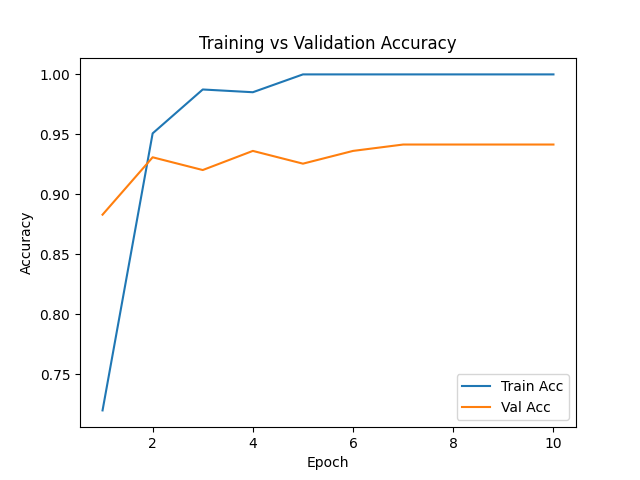
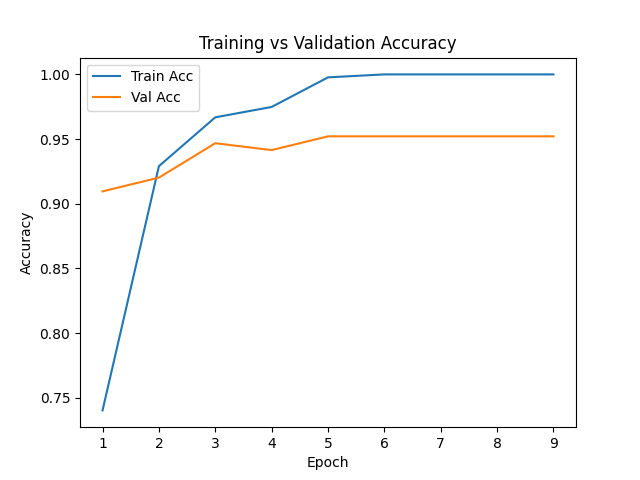
C1 statistical robustness check results, C2 visualise qualitative localisation results and script, file rename to correspond to sections in part c accordingly

diff --git a/src/eval/c2_visualise_qualitative_localisation.py b/src/eval/c2_visualise_qualitative_localisation.py
@@ -6,7 +6,7 @@ import matplotlib.pyplot as plt
 import numpy as np
 from src.data.jhmdb_dataloader import build_jhmdb_dataloaders
 from src.model.localizer import VideoMAELocalizer
-
+from src.data.jhmdb_dataset import JHMDBDataset
 
 def draw_box(img, box, color, thickness=2):
     x1, y1, x2, y2 = [int(v) for v in box]
@@ -14,6 +14,13 @@ def draw_box(img, box, color, thickness=2):
     cv2.rectangle(img, (x1, y1), (x2, y2), color, thickness)
     return img
 
+def get_class_color(class_idx):
+    colors = [
+        (255, 0, 0), (0, 255, 0), (0, 0, 255),
+        (255, 255, 0), (255, 0, 255), (0, 255, 255),
+        (128, 0, 0), (0, 128, 0), (0, 0, 128),
+    ]
+    return colors[class_idx % len(colors)]
 
 def denormalize_box(box, width, height):
     box = box.clone()
@@ -36,6 +43,8 @@ def main():
     root = "./JHMDB"
 
     _, test_loader = build_jhmdb_dataloaders(root, cfg)
+    dataset = JHMDBDataset(root=root, split="test", split_id=1, num_frames=16)
+    class_names = dataset.classes
 
     model = VideoMAELocalizer(
         checkpoint="MCG-NJU/videomae-base-finetuned-kinetics",
@@ -60,7 +69,9 @@ def main():
         gt_boxes = gt_boxes.to(device)
 
         with torch.no_grad():
-            _, pred_boxes = model(frames)
+            class_logits, pred_boxes = model(frames)
+            pred_label = class_logits.argmax(dim=1)[0].item()
+            gt_label = labels[0].item()
 
         frames = frames[0].cpu()
         gt_boxes = gt_boxes[0].cpu()
@@ -78,8 +89,10 @@ def main():
             gt = denormalize_box(gt_boxes[frame_idx], w, h)
             pred = denormalize_box(pred_boxes[frame_idx], w, h)
 
+            pred_color = get_class_color(pred_label)
             img = draw_box(img, gt, (0, 255, 0), 2)
-            img = draw_box(img, pred, (0, 0, 255), 2)
+            pred_color = get_class_color(pred_label)
+            img = draw_box(img, pred, pred_color, 2)
 
             img = cv2.cvtColor(img, cv2.COLOR_BGR2RGB)
             imgs.append(img)
@@ -89,7 +102,10 @@ def main():
             ax.imshow(img)
             ax.axis("off")
 
-        title = f"{meta['class_name'][0]} | {meta['video_name'][0]}"
+        gt_name = class_names[gt_label]
+        pred_name = class_names[pred_label]
+
+        title = f"GT: {gt_name} | Pred: {pred_name}"
         fig.suptitle(title)
         plt.tight_layout()
         plt.savefig(f"outputs/localisation_vis/sample_{sample_idx+1}.png")

diff --git a/main.py b/main.py
@@ -15,12 +15,22 @@ from src.utils import seed_everything, count_parameters
 from src.model.timesformer import load_timesformer
 from src.model.videomae import load_videomae
 from src.eval.plots import plot_training
+import random
+import numpy as np
+import torch
 
 def parse_args():
     parser = argparse.ArgumentParser()
     parser.add_argument("--model",     type=str, required=True, choices=["timesformer", "videomae"])
     parser.add_argument("--eval-only", action="store_true")
+    parser.add_argument("--seed", type=int, default=42)
     return parser.parse_args()
+
+def set_seed(seed):
+    random.seed(seed)
+    np.random.seed(seed)
+    torch.manual_seed(seed)
+    torch.cuda.manual_seed_all(seed)
 
 def main():
     args = parse_args()
@@ -30,7 +40,7 @@ def main():
         "resolution": 224,
         "train_ratio": 0.70,
         "val_ratio": 0.15,
-        "seed": 42,
+        "seed": args.seed,
         "batch_size": 4,
         "num_workers": 0,
         "warmup_epochs": 3,

diff --git a/src/eval/metrics.py b/src/eval/metrics.py
@@ -58,8 +58,11 @@ def compute_classification_metrics(y_true, y_pred, class_names=None):
 
 def format_metrics_summary(metrics: dict) -> str:
     return (
-        f"Acc: {metrics['accuracy']:.4f} | "
+        f"Top1: {metrics['accuracy']:.4f} | "
+        f"Top5: {metrics['top5_accuracy']:.4f} | "
         f"Bal Acc: {metrics['balanced_accuracy']:.4f} | "
-        f"P/R/F1 macro: {metrics['precision_macro']:.4f}/{metrics['recall_macro']:.4f}/{metrics['f1_macro']:.4f} | "
+        f"P/R/F1 macro: {metrics['precision_macro']:.4f}/"
+        f"{metrics['recall_macro']:.4f}/"
+        f"{metrics['f1_macro']:.4f} | "
         f"F1 weighted: {metrics['f1_weighted']:.4f}"
     )

diff --git a/src/training/train.py b/src/training/train.py
@@ -260,6 +260,7 @@ def train(model, train_loader, val_loader, test_loader, cfg, device, output_dir,
             y_pred=val_stats["predictions"],
             class_names=class_names,
         )
+        val_metrics["top5_accuracy"] = val_stats["top5_accuracy"]
 
         history["train_loss"].append(train_stats["loss"])
         history["train_acc"].append(train_stats["accuracy"])
